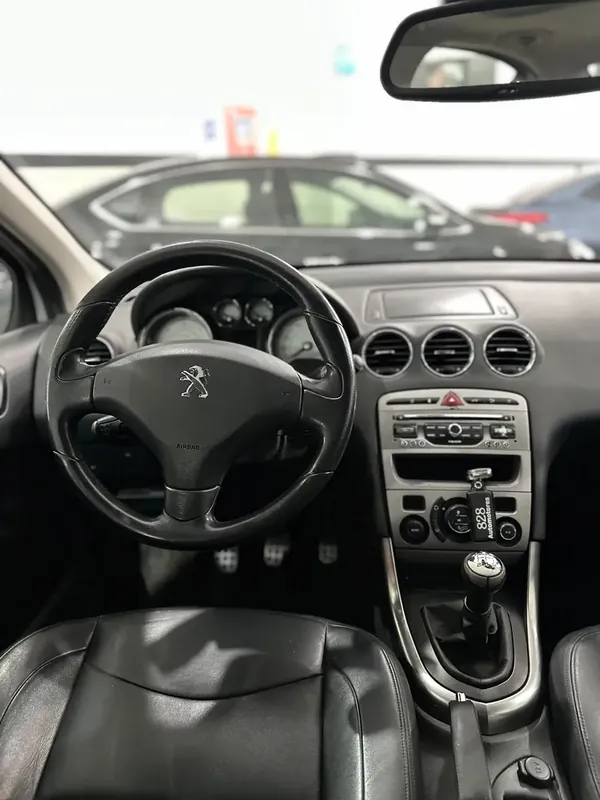
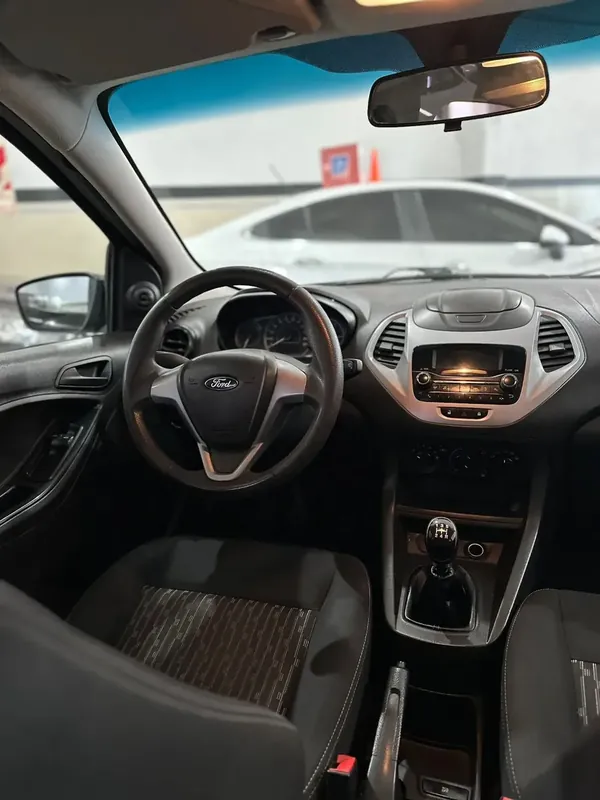
Add files via upload

diff --git a/index.html b/index.html
@@ -2489,11 +2489,11 @@ dialog.cmp[open] .cmp-hd{animation:moIn var(--mo-slow) var(--mo-ease) backwards}
 }
 
 /* ==========================================================================
-   v12 · Anillo decorativo de interiores (js/anillo.js): 10 tarjetas, solo para mirar
+   v12 · Anillo decorativo de interiores (js/anillo.js): 7 tarjetas, solo para mirar
    ========================================================================== */
 .ring-sec{position:relative;isolation:isolate;overflow:hidden;contain:layout paint;background:radial-gradient(ellipse 55% 70% at 50% 55%,rgba(238,28,34,.2),transparent 70%),#060607;border-top:1px solid rgba(238,28,34,.4);border-bottom:1px solid rgba(238,28,34,.4);pointer-events:none;-webkit-user-select:none;user-select:none}
-.ring-stage{position:relative;height:clamp(420px,50vw,620px);margin:0;padding:0;list-style:none}
-.ring-card{position:absolute;left:50%;top:50%;width:clamp(110px,13vw,190px);aspect-ratio:3/4;margin:0;padding:0;background:#111;border:1px solid rgba(255,255,255,.16);border-bottom:4px solid #ee1c22;clip-path:polygon(0 0,calc(100% - 18px) 0,100% 18px,100% 100%,0 100%);box-shadow:0 18px 40px rgba(0,0,0,.5);will-change:transform,opacity}
+.ring-stage{position:relative;height:clamp(460px,54vw,680px);margin:0;padding:0;list-style:none}
+.ring-card{position:absolute;left:50%;top:50%;width:clamp(130px,16vw,230px);aspect-ratio:3/4;margin:0;padding:0;background:#111;border:1px solid rgba(255,255,255,.16);border-bottom:4px solid #ee1c22;clip-path:polygon(0 0,calc(100% - 18px) 0,100% 18px,100% 100%,0 100%);box-shadow:0 18px 40px rgba(0,0,0,.5);will-change:transform,opacity}
 .ring-card img{display:block;width:100%;height:100%;object-fit:cover}
 .msg-updated{animation:msg-updated .28s ease-out}@keyframes msg-updated{from{opacity:.68;transform:translateY(2px)}to{opacity:1;transform:translateY(0)}}
 .guia-progress{color:#d9dbdd;font-size:.9rem;margin:.25rem 0}
@@ -2503,6 +2503,31 @@ dialog.cmp[open] .cmp-hd{animation:moIn var(--mo-slow) var(--mo-ease) backwards}
 .dr-hr-note{font-size:.9rem;color:#d9dbdd;margin-top:.6rem}
 @media(prefers-reduced-motion:reduce){.msg-updated{animation:none}}
 
+
+/* ==========================================================================
+   v13 · Flecha que cruza (js/boton-flecha.js): en .btn[data-bf] hay dos ventanas recortadas.
+   Al pasar el mouse (o enfocar con teclado), 300 ms con cubic-bezier(.25,1,.5,1): la flecha final
+   sale por la derecha mientras su ventana se cierra, y la ventana de adelante se abre y deja
+   entrar el icono desde la izquierda. Las dos anchuras corren en el mismo reloj: el botón no cambia de ancho.
+   ========================================================================== */
+.btn[data-bf]{--bf-s:1.25em;--bf-g:.6em;--bf-t:300ms;--bf-e:cubic-bezier(.25,1,.5,1);gap:0}
+.btn[data-bf] .bf{display:inline-flex;align-items:center;flex:none;overflow:hidden;height:var(--bf-s);pointer-events:none;transition:width var(--bf-t) var(--bf-e)}
+.btn[data-bf] .bf svg{display:block;flex:none;width:var(--bf-s);height:var(--bf-s);fill:none;stroke:currentColor;stroke-width:2;stroke-linecap:round;stroke-linejoin:round;transition:transform var(--bf-t) var(--bf-e)}
+.btn[data-bf] .bf-l{width:0}
+.btn[data-bf] .bf-l svg{margin-right:var(--bf-g);transform:translateX(calc(-100% - var(--bf-g)))}
+.btn[data-bf] .bf-t{width:calc(var(--bf-s) + var(--bf-g))}
+.btn[data-bf] .bf-t svg{margin-left:var(--bf-g)}
+@media (hover:hover) and (pointer:fine){
+  .btn[data-bf]:hover .bf-l{width:calc(var(--bf-s) + var(--bf-g))}
+  .btn[data-bf]:hover .bf-l svg{transform:none}
+  .btn[data-bf]:hover .bf-t{width:0}
+  .btn[data-bf]:hover .bf-t svg{transform:translateX(calc(100% + var(--bf-g)))}
+}
+.btn[data-bf]:focus-visible .bf-l{width:calc(var(--bf-s) + var(--bf-g))}
+.btn[data-bf]:focus-visible .bf-l svg{transform:none}
+.btn[data-bf]:focus-visible .bf-t{width:0}
+.btn[data-bf]:focus-visible .bf-t svg{transform:translateX(calc(100% + var(--bf-g)))}
+@media (prefers-reduced-motion:reduce){.btn[data-bf] .bf,.btn[data-bf] .bf svg{transition-duration:.01ms}}
 </style>
 <link rel="stylesheet" href="css/dr-identidad.css?v=20261024-4">
 <link rel="stylesheet" href="css/hero-carousel.css?v=20261024-5">
@@ -2515,7 +2540,8 @@ dialog.cmp[open] .cmp-hd{animation:moIn var(--mo-slow) var(--mo-ease) backwards}
 <script defer src="js/fondos-secciones.js?v=20261024-1"></script>
 <script defer src="js/secciones.js?v=20261024-7"></script>
 <script defer src="js/combobox.js?v=20261024-1"></script>
-<script defer src="js/anillo.js?v=20261024-1"></script>
+<script defer src="js/anillo.js?v=20261024-2"></script>
+<script defer src="js/boton-flecha.js?v=20261024-1"></script>
 <script defer src="js/mapa.js?v=20261023-1"></script>
 <script defer src="js/horarios.js?v=20261024-1"></script>
 <script defer src="js/site.js?v=20261024-2"></script>
@@ -3045,7 +3071,7 @@ dialog.cmp[open] .cmp-hd{animation:moIn var(--mo-slow) var(--mo-ease) backwards}
 <div class="row mt"><a class="btn p" href="https://www.instagram.com/automotores828/" target="_blank" rel="noopener noreferrer">Ver más en Instagram</a><a class="btn" href="https://www.facebook.com/automotoressrl828/" target="_blank" rel="noopener noreferrer">Ver más en Facebook</a></div>
 </div></section>
 
-<div class="ring-sec" data-anillo aria-hidden="true"><ul class="ring-stage"><li class="ring-card"><img src="images/anillo/anillo-01.webp" width="600" height="800" alt="" loading="lazy" decoding="async" draggable="false"></li><li class="ring-card"><img src="images/anillo/anillo-02.webp" width="600" height="800" alt="" loading="lazy" decoding="async" draggable="false"></li><li class="ring-card"><img src="images/anillo/anillo-03.webp" width="600" height="800" alt="" loading="lazy" decoding="async" draggable="false"></li><li class="ring-card"><img src="images/anillo/anillo-04.webp" width="600" height="800" alt="" loading="lazy" decoding="async" draggable="false"></li><li class="ring-card"><img src="images/anillo/anillo-05.webp" width="600" height="800" alt="" loading="lazy" decoding="async" draggable="false"></li><li class="ring-card"><img src="images/anillo/anillo-06.webp" width="600" height="800" alt="" loading="lazy" decoding="async" draggable="false"></li><li class="ring-card"><img src="images/anillo/anillo-07.webp" width="600" height="800" alt="" loading="lazy" decoding="async" draggable="false"></li><li class="ring-card"><img src="images/anillo/anillo-08.webp" width="600" height="800" alt="" loading="lazy" decoding="async" draggable="false"></li><li class="ring-card"><img src="images/anillo/anillo-09.webp" width="600" height="800" alt="" loading="lazy" decoding="async" draggable="false"></li><li class="ring-card"><img src="images/anillo/anillo-10.webp" width="600" height="800" alt="" loading="lazy" decoding="async" draggable="false"></li></ul></div>
+<div class="ring-sec" data-anillo aria-hidden="true"><ul class="ring-stage"><li class="ring-card"><img src="images/anillo/anillo-01.webp" width="600" height="800" alt="" loading="lazy" decoding="async" draggable="false"></li><li class="ring-card"><img src="images/anillo/anillo-02.webp" width="600" height="800" alt="" loading="lazy" decoding="async" draggable="false"></li><li class="ring-card"><img src="images/anillo/anillo-03.webp" width="600" height="800" alt="" loading="lazy" decoding="async" draggable="false"></li><li class="ring-card"><img src="images/anillo/anillo-04.webp" width="600" height="800" alt="" loading="lazy" decoding="async" draggable="false"></li><li class="ring-card"><img src="images/anillo/anillo-05.webp" width="600" height="800" alt="" loading="lazy" decoding="async" draggable="false"></li><li class="ring-card"><img src="images/anillo/anillo-06.webp" width="600" height="800" alt="" loading="lazy" decoding="async" draggable="false"></li><li class="ring-card"><img src="images/anillo/anillo-07.webp" width="600" height="800" alt="" loading="lazy" decoding="async" draggable="false"></li></ul></div>
 
 <section class="finance-section" id="financiacion" aria-labelledby="fin-t"><div class="w">
 <div class="finance-head"><div><p class="ey"><span class="ey-brand">828</span> · Financiación y servicios</p><h2 id="fin-t">Financiá tu <em>próximo vehículo</em></h2><p class="sec-p">Consultanos por financiación. Las condiciones se informan por consulta: este sitio no publica condiciones de financiación.</p></div><aside class="finance-aside"><span>Automotores 828</span><p>Encontrá una forma de avanzar hacia tu próxima unidad.</p></aside></div>

diff --git a/js/boton-flecha.js b/js/boton-flecha.js
@@ -1,0 +1,113 @@
+/* Automotores 828 · botones «flecha que cruza» (v13).
+   A cada .btn le agrega dos ventanas recortadas: una vacía al frente (icono según el destino:
+   WhatsApp, correo, Instagram, mapa…) y otra al final con la flecha. El movimiento es CSS puro
+   (ver «v13» en estilos.css); este archivo solo arma el marcado y lo repara si otro script
+   reescribe el texto del botón (p. ej. «Copiado»). Sin dependencias. */
+(function () {
+  'use strict';
+  var NS = 'http://www.w3.org/2000/svg';
+  var P = {
+    arrow: '<path d="M5 12h14M13 6l6 6-6 6"/>',
+    wa: '<path d="M4 20l1.3-4A8 8 0 1 1 8 18.7z"/><path d="M9 9c0 3 3 6 6 6l1-1.5-2-1-1 .8a4 4 0 0 1-2-2l.8-1-1-2z"/>',
+    mail: '<rect x="3.5" y="5.5" width="17" height="13" rx="1.5"/><path d="M4 7l8 6 8-6"/>',
+    ig: '<rect x="3.5" y="3.5" width="17" height="17" rx="5"/><circle cx="12" cy="12" r="4"/><path d="M17.4 6.6h.01"/>',
+    fb: '<path d="M14 8.5h2V5h-2.5A3.5 3.5 0 0 0 10 8.5V11H8v3.2h2V20h3.2v-5.8H16l.5-3.2h-3.3V9a.5.5 0 0 1 .5-.5z"/>',
+    pin: '<path d="M12 21s-7-6.2-7-11a7 7 0 0 1 14 0c0 4.8-7 11-7 11z"/><circle cx="12" cy="10" r="2.5"/>',
+    ext: '<path d="M14 4h6v6M20 4l-9 9M18 14v5a1 1 0 0 1-1 1H5a1 1 0 0 1-1-1V7a1 1 0 0 1 1-1h5"/>',
+    file: '<path d="M7 3.5h7l4 4V20H7z"/><path d="M14 3.5V8h4M9.5 13h5M9.5 16.5h5"/>',
+    copy: '<rect x="8.5" y="8.5" width="11" height="11" rx="1.5"/><path d="M15.5 8.5v-3h-10v10h3"/>',
+    share: '<circle cx="18" cy="5" r="2.5"/><circle cx="6" cy="12" r="2.5"/><circle cx="18" cy="19" r="2.5"/><path d="M8.2 10.8l7.6-4.6M8.2 13.2l7.6 4.6"/>',
+    plus: '<path d="M12 5v14M5 12h14"/>',
+    car: '<path d="M3.5 15.5v-3l2-5h13l2 5v3zM6.5 15.5V18M17.5 15.5V18M3.5 12.5h17"/>',
+    down: '<path d="M12 5v14M6 13l6 6 6-6"/>',
+    swap: '<path d="M6 8h12l-3-3M18 16H6l3 3"/>',
+    phone: '<path d="M6.5 4h3l1.5 4-2 1.5a10 10 0 0 0 5.5 5.5L16 13l4 1.5v3a2 2 0 0 1-2 2A14 14 0 0 1 4.5 6a2 2 0 0 1 2-2z"/>',
+    home: '<path d="M4 11l8-6.5 8 6.5M6 9.5V20h12V9.5"/>',
+    cal: '<rect x="4" y="5.5" width="16" height="14.5" rx="1.5"/><path d="M4 10h16M8.5 3.5v4M15.5 3.5v4"/>'
+  };
+
+  function icono(el) {
+    if (el.hasAttribute('data-ficha') || el.classList.contains('ficha-trigger')) return 'file';
+    if (el.hasAttribute('data-share')) return 'share';
+    if (el.hasAttribute('data-copiar') || el.hasAttribute('data-copiar-msg')) return 'copy';
+    if (el.hasAttribute('data-mapa-abrir')) return 'pin';
+    if (el.id === 'inventory-more') return 'plus';
+    var h = (el.getAttribute('href') || '').toLowerCase();
+    if (!h) return /plegar/i.test(el.textContent) ? 'down' : null;
+    if (/reserva\.html/.test(h)) return 'cal';
+    if (/^https?:\/\/(wa\.me|api\.whatsapp\.com|wa\.link)/.test(h)) return 'wa';
+    if (h.indexOf('mailto:') === 0) return 'mail';
+    if (h.indexOf('tel:') === 0) return 'phone';
+    if (h.indexOf('instagram.com') > -1) return 'ig';
+    if (h.indexOf('facebook.com') > -1) return 'fb';
+    if (/google\.[a-z.]+\/maps|maps\.app\.goo\.gl|goo\.gl\/maps/.test(h)) return 'pin';
+    if (h === '#unidades') return 'car';
+    if (h === '#tu-usado') return 'swap';
+    if (h.charAt(0) === '#') return 'down';
+    if (h === './' || h === '/' || h === 'index.html') return 'home';
+    if (/^https?:/.test(h)) return 'ext';
+    return null;
+  }
+
+  function svg(clave) {
+    var s = document.createElementNS(NS, 'svg');
+    s.setAttribute('viewBox', '0 0 24 24');
+    s.setAttribute('aria-hidden', 'true');
+    s.setAttribute('focusable', 'false');
+    s.innerHTML = P[clave];
+    return s;
+  }
+  function ventana(cls, clave) {
+    var w = document.createElement('span');
+    w.className = 'bf ' + cls;
+    w.setAttribute('aria-hidden', 'true');
+    w.appendChild(svg(clave));
+    return w;
+  }
+  function armado(el) {
+    var a = el.firstElementChild, z = el.lastElementChild;
+    return a && z && a.classList.contains('bf-l') && z.classList.contains('bf-t');
+  }
+  function mejorar(el) {
+    if (el.hasAttribute('data-bf')) return;
+    /* los que ya traen su propio icono (formularios .cv-btn) no se tocan */
+    if (el.matches('.cv-btn') || el.querySelector('svg')) return;
+    var clave = icono(el);
+    if (!clave) return;
+    el.insertBefore(ventana('bf-l', clave), el.firstChild);
+    el.appendChild(ventana('bf-t', 'arrow'));
+    el.setAttribute('data-bf', clave);
+  }
+  /* otro script puede reescribir el texto (textContent): se vuelven a poner las dos ventanas */
+  function reparar(el) {
+    if (armado(el)) return;
+    var clave = el.getAttribute('data-bf');
+    [].slice.call(el.querySelectorAll(':scope > .bf')).forEach(function (n) { n.remove(); });
+    el.insertBefore(ventana('bf-l', clave), el.firstChild);
+    el.appendChild(ventana('bf-t', 'arrow'));
+  }
+  function barrer(raiz) {
+    if (raiz.nodeType !== 1) return;
+    if (raiz.matches('.btn')) mejorar(raiz);
+    [].forEach.call(raiz.querySelectorAll('.btn'), mejorar);
+  }
+
+  function iniciar() {
+    barrer(document.body);
+    if (!('MutationObserver' in window)) return;
+    new MutationObserver(function (ms) {
+      var i, j, m, n, b;
+      for (i = 0; i < ms.length; i++) {
+        m = ms[i];
+        for (j = 0; j < m.addedNodes.length; j++) {
+          n = m.addedNodes[j];
+          if (n.nodeType === 1 && !(n.classList && n.classList.contains('bf'))) barrer(n);
+        }
+        b = m.target.nodeType === 1 && m.target.closest ? m.target.closest('.btn[data-bf]') : null;
+        if (b && m.target === b) reparar(b);
+      }
+    }).observe(document.body, { childList: true, subtree: true });
+  }
+  if (document.readyState === 'loading') document.addEventListener('DOMContentLoaded', iniciar);
+  else iniciar();
+})();

diff --git a/scripts/estilos.css b/scripts/estilos.css
@@ -2455,9 +2455,34 @@ dialog.cmp[open] .cmp-hd{animation:moIn var(--mo-slow) var(--mo-ease) backwards}
 }
 
 /* ==========================================================================
-   v12 · Anillo decorativo de interiores (js/anillo.js): 10 tarjetas, solo para mirar
+   v12 · Anillo decorativo de interiores (js/anillo.js): 7 tarjetas, solo para mirar
    ========================================================================== */
 .ring-sec{position:relative;isolation:isolate;overflow:hidden;contain:layout paint;background:radial-gradient(ellipse 55% 70% at 50% 55%,rgba(238,28,34,.2),transparent 70%),#060607;border-top:1px solid rgba(238,28,34,.4);border-bottom:1px solid rgba(238,28,34,.4);pointer-events:none;-webkit-user-select:none;user-select:none}
-.ring-stage{position:relative;height:clamp(420px,50vw,620px);margin:0;padding:0;list-style:none}
-.ring-card{position:absolute;left:50%;top:50%;width:clamp(110px,13vw,190px);aspect-ratio:3/4;margin:0;padding:0;background:#111;border:1px solid rgba(255,255,255,.16);border-bottom:4px solid #ee1c22;clip-path:polygon(0 0,calc(100% - 18px) 0,100% 18px,100% 100%,0 100%);box-shadow:0 18px 40px rgba(0,0,0,.5);will-change:transform,opacity}
+.ring-stage{position:relative;height:clamp(460px,54vw,680px);margin:0;padding:0;list-style:none}
+.ring-card{position:absolute;left:50%;top:50%;width:clamp(130px,16vw,230px);aspect-ratio:3/4;margin:0;padding:0;background:#111;border:1px solid rgba(255,255,255,.16);border-bottom:4px solid #ee1c22;clip-path:polygon(0 0,calc(100% - 18px) 0,100% 18px,100% 100%,0 100%);box-shadow:0 18px 40px rgba(0,0,0,.5);will-change:transform,opacity}
 .ring-card img{display:block;width:100%;height:100%;object-fit:cover}
+
+/* ==========================================================================
+   v13 · Flecha que cruza (js/boton-flecha.js): en .btn[data-bf] hay dos ventanas recortadas.
+   Al pasar el mouse (o enfocar con teclado), 300 ms con cubic-bezier(.25,1,.5,1): la flecha final
+   sale por la derecha mientras su ventana se cierra, y la ventana de adelante se abre y deja
+   entrar el icono desde la izquierda. Las dos anchuras corren en el mismo reloj: el botón no cambia de ancho.
+   ========================================================================== */
+.btn[data-bf]{--bf-s:1.25em;--bf-g:.6em;--bf-t:300ms;--bf-e:cubic-bezier(.25,1,.5,1);gap:0}
+.btn[data-bf] .bf{display:inline-flex;align-items:center;flex:none;overflow:hidden;height:var(--bf-s);pointer-events:none;transition:width var(--bf-t) var(--bf-e)}
+.btn[data-bf] .bf svg{display:block;flex:none;width:var(--bf-s);height:var(--bf-s);fill:none;stroke:currentColor;stroke-width:2;stroke-linecap:round;stroke-linejoin:round;transition:transform var(--bf-t) var(--bf-e)}
+.btn[data-bf] .bf-l{width:0}
+.btn[data-bf] .bf-l svg{margin-right:var(--bf-g);transform:translateX(calc(-100% - var(--bf-g)))}
+.btn[data-bf] .bf-t{width:calc(var(--bf-s) + var(--bf-g))}
+.btn[data-bf] .bf-t svg{margin-left:var(--bf-g)}
+@media (hover:hover) and (pointer:fine){
+  .btn[data-bf]:hover .bf-l{width:calc(var(--bf-s) + var(--bf-g))}
+  .btn[data-bf]:hover .bf-l svg{transform:none}
+  .btn[data-bf]:hover .bf-t{width:0}
+  .btn[data-bf]:hover .bf-t svg{transform:translateX(calc(100% + var(--bf-g)))}
+}
+.btn[data-bf]:focus-visible .bf-l{width:calc(var(--bf-s) + var(--bf-g))}
+.btn[data-bf]:focus-visible .bf-l svg{transform:none}
+.btn[data-bf]:focus-visible .bf-t{width:0}
+.btn[data-bf]:focus-visible .bf-t svg{transform:translateX(calc(100% + var(--bf-g)))}
+@media (prefers-reduced-motion:reduce){.btn[data-bf] .bf,.btn[data-bf] .bf svg{transition-duration:.01ms}}

diff --git a/404.html b/404.html
@@ -2675,10 +2675,36 @@ html body .fav-b svg{position:relative;z-index:1;width:19px;height:19px}
 
 /* Barra fija inferior (móvil): el texto largo de WhatsApp se partía en dos líneas pegado al borde */
 html body .cta-bar a{padding:6px 12px;text-align:center;line-height:1.3}
+
+/* ==========================================================================
+   v13 · Flecha que cruza (js/boton-flecha.js): en .btn[data-bf] hay dos ventanas recortadas.
+   Al pasar el mouse (o enfocar con teclado), 300 ms con cubic-bezier(.25,1,.5,1): la flecha final
+   sale por la derecha mientras su ventana se cierra, y la ventana de adelante se abre y deja
+   entrar el icono desde la izquierda. Las dos anchuras corren en el mismo reloj: el botón no cambia de ancho.
+   ========================================================================== */
+.btn[data-bf]{--bf-s:1.25em;--bf-g:.6em;--bf-t:300ms;--bf-e:cubic-bezier(.25,1,.5,1);gap:0}
+.btn[data-bf] .bf{display:inline-flex;align-items:center;flex:none;overflow:hidden;height:var(--bf-s);pointer-events:none;transition:width var(--bf-t) var(--bf-e)}
+.btn[data-bf] .bf svg{display:block;flex:none;width:var(--bf-s);height:var(--bf-s);fill:none;stroke:currentColor;stroke-width:2;stroke-linecap:round;stroke-linejoin:round;transition:transform var(--bf-t) var(--bf-e)}
+.btn[data-bf] .bf-l{width:0}
+.btn[data-bf] .bf-l svg{margin-right:var(--bf-g);transform:translateX(calc(-100% - var(--bf-g)))}
+.btn[data-bf] .bf-t{width:calc(var(--bf-s) + var(--bf-g))}
+.btn[data-bf] .bf-t svg{margin-left:var(--bf-g)}
+@media (hover:hover) and (pointer:fine){
+  .btn[data-bf]:hover .bf-l{width:calc(var(--bf-s) + var(--bf-g))}
+  .btn[data-bf]:hover .bf-l svg{transform:none}
+  .btn[data-bf]:hover .bf-t{width:0}
+  .btn[data-bf]:hover .bf-t svg{transform:translateX(calc(100% + var(--bf-g)))}
+}
+.btn[data-bf]:focus-visible .bf-l{width:calc(var(--bf-s) + var(--bf-g))}
+.btn[data-bf]:focus-visible .bf-l svg{transform:none}
+.btn[data-bf]:focus-visible .bf-t{width:0}
+.btn[data-bf]:focus-visible .bf-t svg{transform:translateX(calc(100% + var(--bf-g)))}
+@media (prefers-reduced-motion:reduce){.btn[data-bf] .bf,.btn[data-bf] .bf svg{transition-duration:.01ms}}
 </style>
 <script>(function(){var s=location.pathname.split("/").filter(Boolean),b=/github\.io$/.test(location.hostname)&&s.length?"/"+s[0]+"/":"/";var st=document.createElement("style");st.textContent="@font-face{font-family:\"Exo 2\";font-style:italic;font-weight:100 900;font-display:swap;src:__U__exo-2-latin-italic.woff2__E__ format(\"woff2\")}\n@font-face{font-family:\"Exo 2\";font-style:normal;font-weight:100 900;font-display:swap;src:__U__exo-2-latin.woff2__E__ format(\"woff2\")}\n@font-face{font-family:\"Inter\";font-style:normal;font-weight:100 900;font-display:swap;src:__U__inter-latin-var.woff2__E__ format(\"woff2\")}\n".split("__U__").join("ur"+"l("+b+"fonts/").split("__E__").join(")");document.head.appendChild(st);document.addEventListener("DOMContentLoaded",function(){document.getElementById("home").href=b})})()</script>
 </head>
 <body>
 <main class="nf"><div><img class="lg-404" src="images/logo-sm.png" width="320" height="320" alt="Automotores 828"><p class="ey">Error 404</p><h1>No encontramos <em>esa página</em></h1><p>Puede que el enlace esté mal escrito o que la página ya no exista.</p><a id="home" class="btn p" href="./">Volver al inicio</a></div></main>
+<script defer src="js/boton-flecha.js?v=20261024-1"></script>
 </body>
 </html>

diff --git a/privacidad.html b/privacidad.html
@@ -2503,6 +2503,31 @@ dialog.cmp[open] .cmp-hd{animation:moIn var(--mo-slow) var(--mo-ease) backwards}
 .dr-hr-note{font-size:.9rem;color:#d9dbdd;margin-top:.6rem}
 @media(prefers-reduced-motion:reduce){.msg-updated{animation:none}}
 
+
+/* ==========================================================================
+   v13 · Flecha que cruza (js/boton-flecha.js): en .btn[data-bf] hay dos ventanas recortadas.
+   Al pasar el mouse (o enfocar con teclado), 300 ms con cubic-bezier(.25,1,.5,1): la flecha final
+   sale por la derecha mientras su ventana se cierra, y la ventana de adelante se abre y deja
+   entrar el icono desde la izquierda. Las dos anchuras corren en el mismo reloj: el botón no cambia de ancho.
+   ========================================================================== */
+.btn[data-bf]{--bf-s:1.25em;--bf-g:.6em;--bf-t:300ms;--bf-e:cubic-bezier(.25,1,.5,1);gap:0}
+.btn[data-bf] .bf{display:inline-flex;align-items:center;flex:none;overflow:hidden;height:var(--bf-s);pointer-events:none;transition:width var(--bf-t) var(--bf-e)}
+.btn[data-bf] .bf svg{display:block;flex:none;width:var(--bf-s);height:var(--bf-s);fill:none;stroke:currentColor;stroke-width:2;stroke-linecap:round;stroke-linejoin:round;transition:transform var(--bf-t) var(--bf-e)}
+.btn[data-bf] .bf-l{width:0}
+.btn[data-bf] .bf-l svg{margin-right:var(--bf-g);transform:translateX(calc(-100% - var(--bf-g)))}
+.btn[data-bf] .bf-t{width:calc(var(--bf-s) + var(--bf-g))}
+.btn[data-bf] .bf-t svg{margin-left:var(--bf-g)}
+@media (hover:hover) and (pointer:fine){
+  .btn[data-bf]:hover .bf-l{width:calc(var(--bf-s) + var(--bf-g))}
+  .btn[data-bf]:hover .bf-l svg{transform:none}
+  .btn[data-bf]:hover .bf-t{width:0}
+  .btn[data-bf]:hover .bf-t svg{transform:translateX(calc(100% + var(--bf-g)))}
+}
+.btn[data-bf]:focus-visible .bf-l{width:calc(var(--bf-s) + var(--bf-g))}
+.btn[data-bf]:focus-visible .bf-l svg{transform:none}
+.btn[data-bf]:focus-visible .bf-t{width:0}
+.btn[data-bf]:focus-visible .bf-t svg{transform:translateX(calc(100% + var(--bf-g)))}
+@media (prefers-reduced-motion:reduce){.btn[data-bf] .bf,.btn[data-bf] .bf svg{transition-duration:.01ms}}
 </style>
 <link rel="stylesheet" href="css/dr-identidad.css?v=20261024-4">
 </head>
@@ -2533,5 +2558,6 @@ dialog.cmp[open] .cmp-hd{animation:moIn var(--mo-slow) var(--mo-ease) backwards}
 </div>
 <div class="ft-bottom"><p class="ft-copy">© 2026 Automotores 828</p><p class="demo-note" data-demo-note>Demo ilustrativa. Consultá disponibilidad y precios con Automotores 828. No es el sitio oficial.</p><p class="ft-sources"><a href="https://www.facebook.com/automotoressrl828/" target="_blank" rel="noopener noreferrer">Facebook</a> · <a href="https://www.instagram.com/automotores828/" target="_blank" rel="noopener noreferrer">Instagram</a></p><a class="ft-privacy" href="./privacidad.html">Privacidad y avisos</a><a class="ft-top" href="#top">Volver arriba ↑</a></div>
 </div></footer>
+<script defer src="js/boton-flecha.js?v=20261024-1"></script>
 </body>
 </html>

diff --git a/js/anillo.js b/js/anillo.js
@@ -1,5 +1,5 @@
 /* Automotores 828 · anillo decorativo de interiores (entre «Unidades» y «Financiación»).
-   10 tarjetas sobre una rueda inclinada, una sola animación con requestAnimationFrame.
+   7 tarjetas sobre una rueda inclinada, una sola animación con requestAnimationFrame.
    Solo decoración: sin interacción, aria-hidden. Pausa fuera de pantalla o con la pestaña oculta;
    con «reducir movimiento» o «ahorro de datos» queda quieto. */
 (function () {
